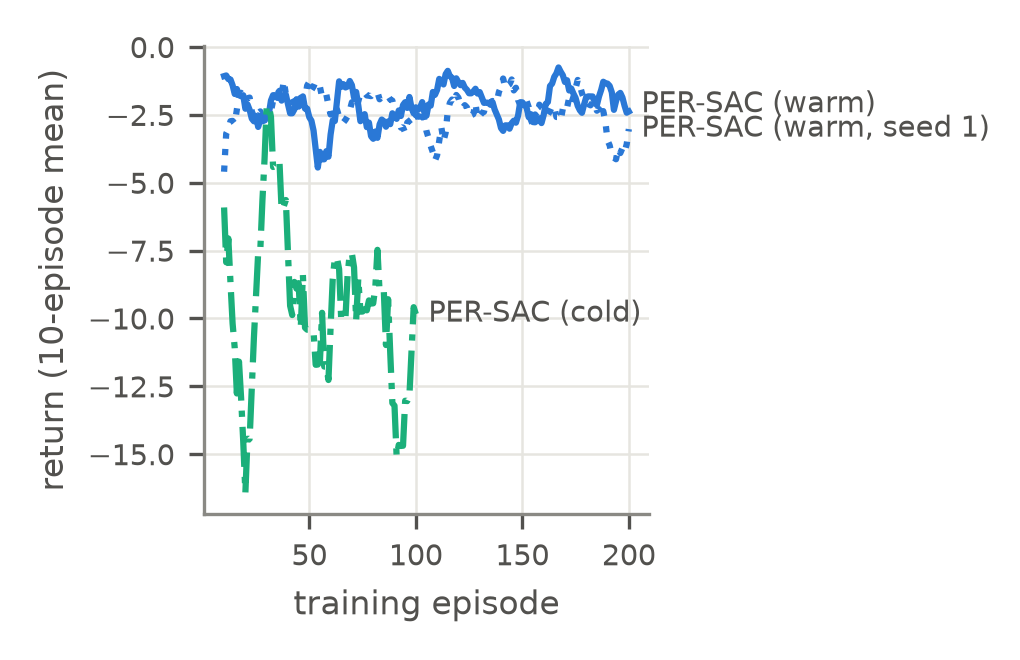
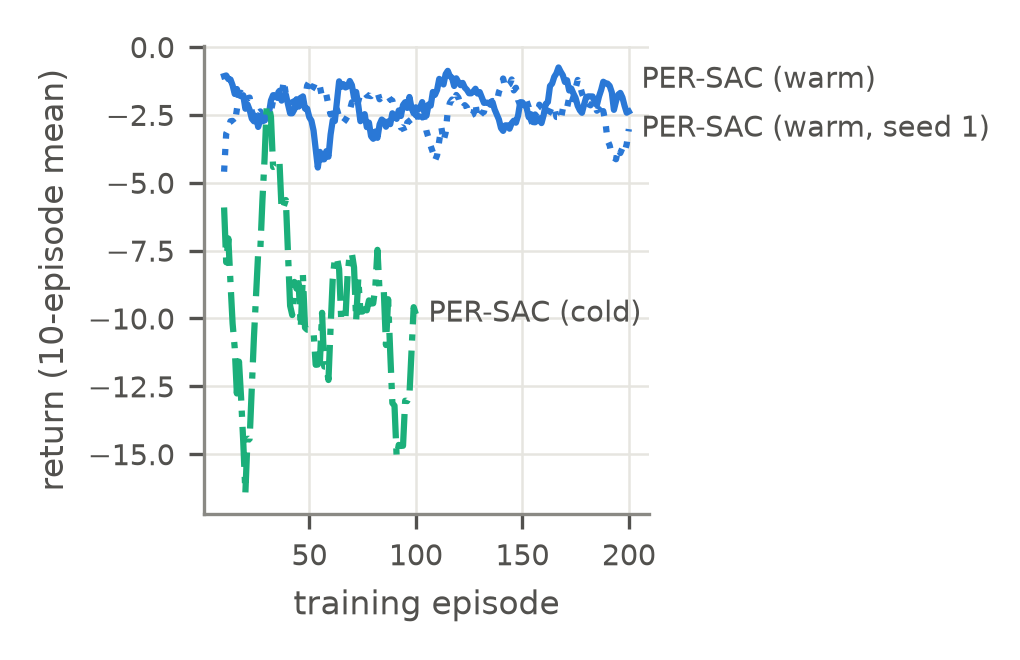
fix(paperA): stop end labels overlapping in the training-return figure
Fig. 4 (a3_training) labels the end of each curve: warm seed 0, warm
seed 1 and cold start. The two warm curves end close together, so their
labels overlapped. The minimum vertical gap between labels goes from 0.9
to 1.8 return units. The plotted data are unchanged.

Regenerated a3_training.pdf and a3_training.png with make_figures.py.

Changed region(s): [[0.6078, 0.0909, 0.851, 0.1818]]

diff --git a/paper_a/make_figures.py b/paper_a/make_figures.py
@@ -144,7 +144,7 @@ def fig_training() -> None:
         x = np.arange(ROLL, len(ret) + 1)
         ax.plot(x, roll, color=c, ls=ls)
         ends.append((x[-1], roll[-1], label))
-    for y, (x_end, _, label) in zip(spread([e[1] for e in ends], 0.9), ends):
+    for y, (x_end, _, label) in zip(spread([e[1] for e in ends], 1.8), ends):
         ax.annotate(label, (x_end, y), xytext=(3, 0), textcoords="offset points", va="center", fontsize=7,
                     color=INK_2, annotation_clip=False)
     ax.set_xlabel("training episode")
